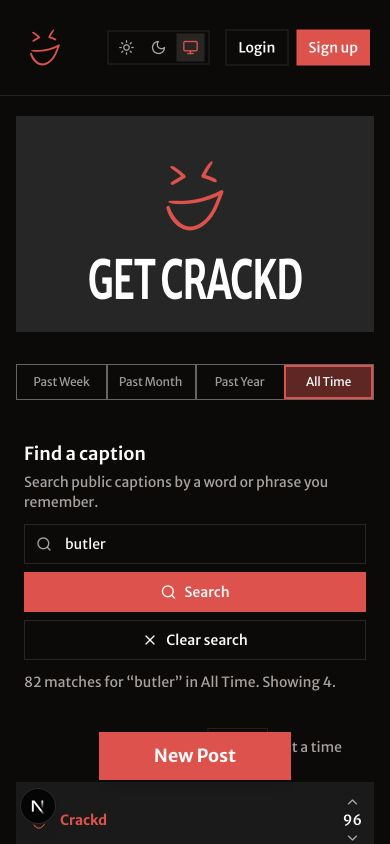
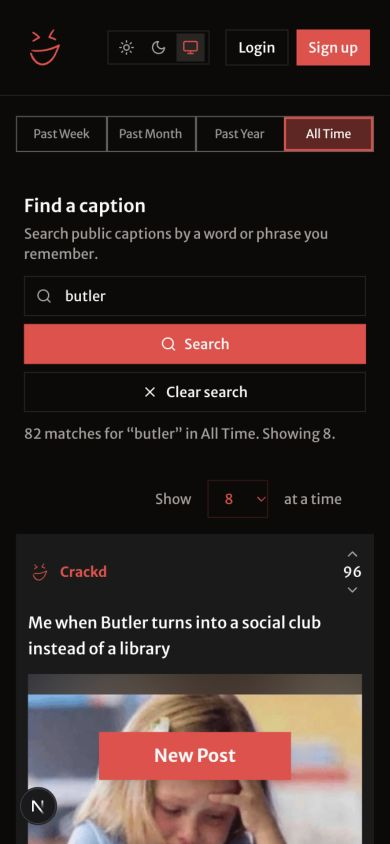
Remove large mobile gallery title

diff --git a/src/components/popular-captions-page-client.tsx b/src/components/popular-captions-page-client.tsx
@@ -365,24 +365,6 @@ export default function PopularCaptionsPageClient({
 
   return (
     <div className="container mx-auto px-1 py-1">
-      {/* Mobile-only Get Crackd Box */}
-      <div className="block sm:hidden w-full mb-8">
-        <div
-          className="bg-gray-50 dark:bg-neutral-800 rounded-2xl p-8 flex
-                      flex-col items-center justify-center"
-        >
-          <div className="relative w-24 h-24 mb-4">
-            <BrandImage variant="mark" alt="Crackd Logo" className="w-full h-full" />
-          </div>
-          <h2
-            className="text-gray-900 dark:text-white text-4xl font-bold
-                        tracking-tight scale-y-150"
-          >
-            GET CRACKD
-          </h2>
-        </div>
-      </div>
-
       <div className="flex justify-center mb-8 relative" style={{ height: "44px" }}>
         <div
           className="relative flex justify-between w-full max-w-[470px] h-[36px] sm:h-[44px] 

diff --git a/docs/iteration-1-review.md b/docs/iteration-1-review.md
@@ -37,6 +37,8 @@ Ask the PM to try finding a remembered caption without coaching. Discuss whether
 
 ## PM feedback log
 
+Student feedback after the first version: the student disliked the large “GET CRACKD” title. The mobile title panel was removed so the time filters and search appear sooner. This is student feedback; the PM review below is still pending.
+
 Review status: **Not yet conducted**. Replace the pending fields with actual observations after the demonstration.
 
 | Item | Actual feedback |
